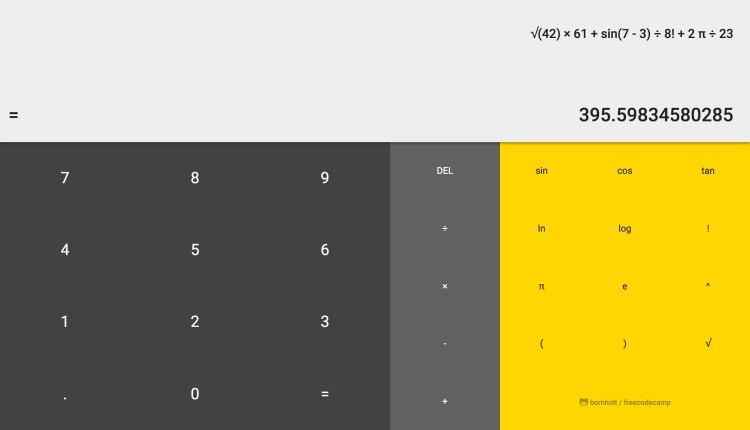
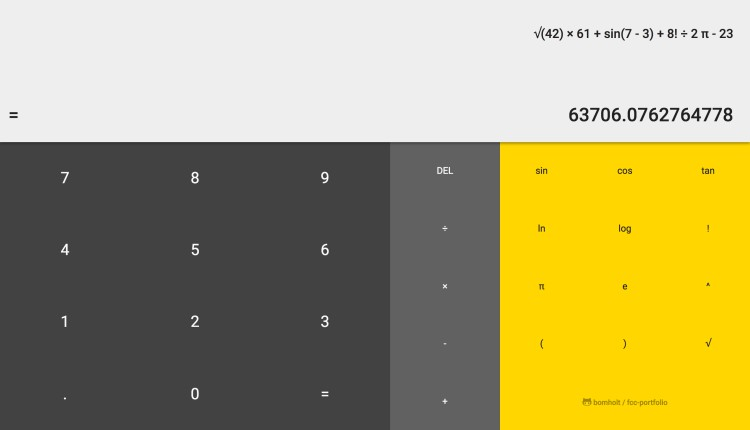
update JavaScript Calculator

Changed region(s): [[0.736, 0.2419, 0.9813, 0.3023], [0.7053, 0.0605, 0.9507, 0.0907], [0.7667, 0.907, 0.8893, 0.9674]]

diff --git a/advanced_front_end_development_projects/js_calculator/index.html b/advanced_front_end_development_projects/js_calculator/index.html
@@ -4,7 +4,7 @@
   <meta charset="UTF-8">
   <title>JavaScript Calculator</title>
   <meta name="viewport" content="width=device-width, initial-scale=1, maximum-scale=1, user-scalable=no">
-  <link rel="stylesheet" href="https://rawgit.com/bomholt/freecodecamp/master/_assets/css/font-awesome.min.css">
+  <link rel="stylesheet" href="https://rawgit.com/bomholt/fcc-portfolio/master/_assets/css/font-awesome.min.css">
   <link rel="stylesheet prefetch" href="https://maxcdn.bootstrapcdn.com/bootstrap/3.3.7/css/bootstrap.min.css">
   <link rel="stylesheet" href="style.css">
 </head>
@@ -78,7 +78,7 @@
           <span class="key">√</span>
         </div>
         <div class="bomholt text-center">
-          <a href="https://github.com/bomholt/freecodecamp" target="_blank" rel="noopener noreferrer"><i class="fa fa-github-alt fa-lg"></i> bomholt / freecodecamp</a>
+          <a href="https://github.com/bomholt/fcc-portfolio" target="_blank" rel="noopener noreferrer"><i class="fa fa-github-alt fa-lg"></i> bomholt / fcc-portfolio</a>
         </div>
       </div>
 

diff --git a/advanced_front_end_development_projects/js_calculator/style.css b/advanced_front_end_development_projects/js_calculator/style.css
@@ -1,4 +1,4 @@
-@import 'https://fonts.googleapis.com/css?family=Roboto:400,500';
+@import url("https://fonts.googleapis.com/css?family=Roboto:400,500");
 html {
   min-height: 100%;
   position: relative;

diff --git a/advanced_front_end_development_projects/js_calculator/style.sass b/advanced_front_end_development_projects/js_calculator/style.sass
@@ -1,4 +1,4 @@
-@import 'https://fonts.googleapis.com/css?family=Roboto:400,500'
+@import url("https://fonts.googleapis.com/css?family=Roboto:400,500")
 
 html
   min-height: 100%
